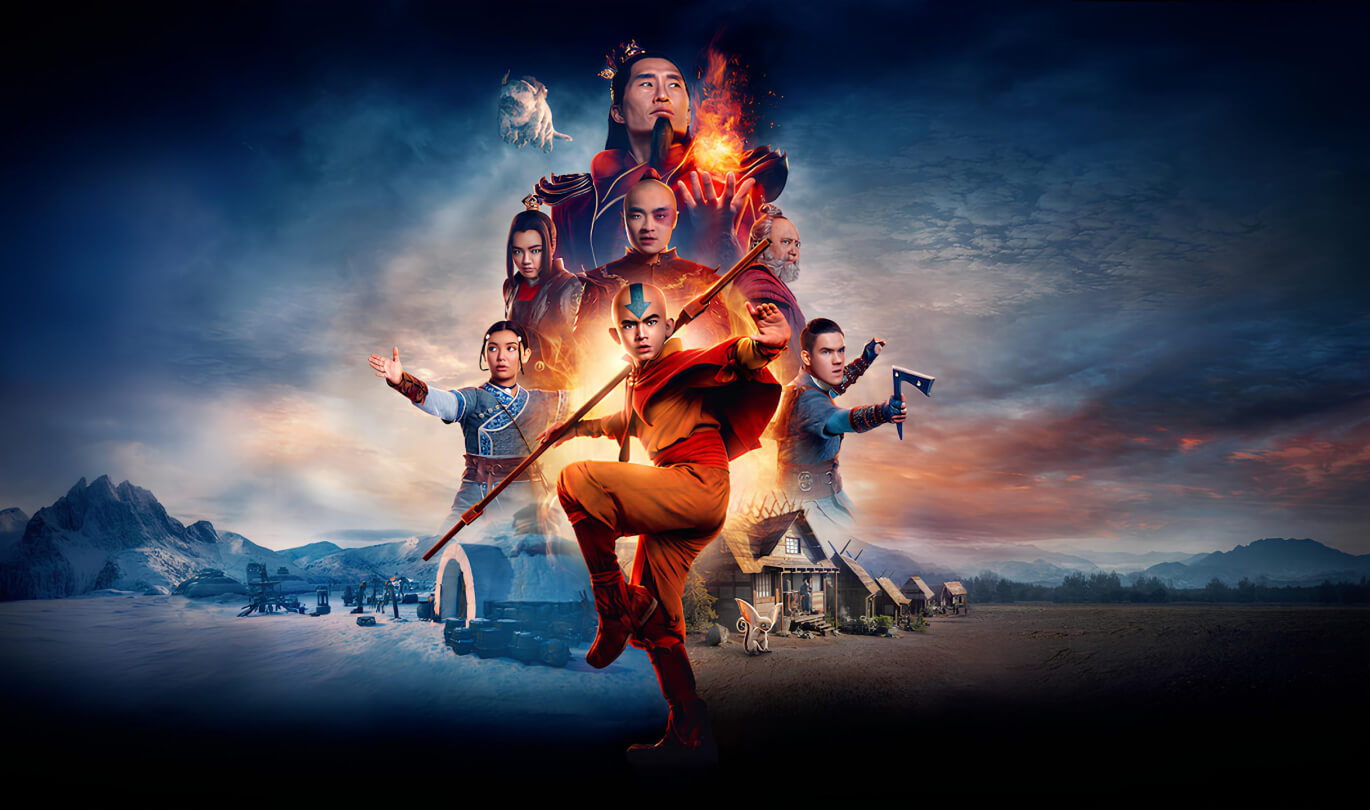
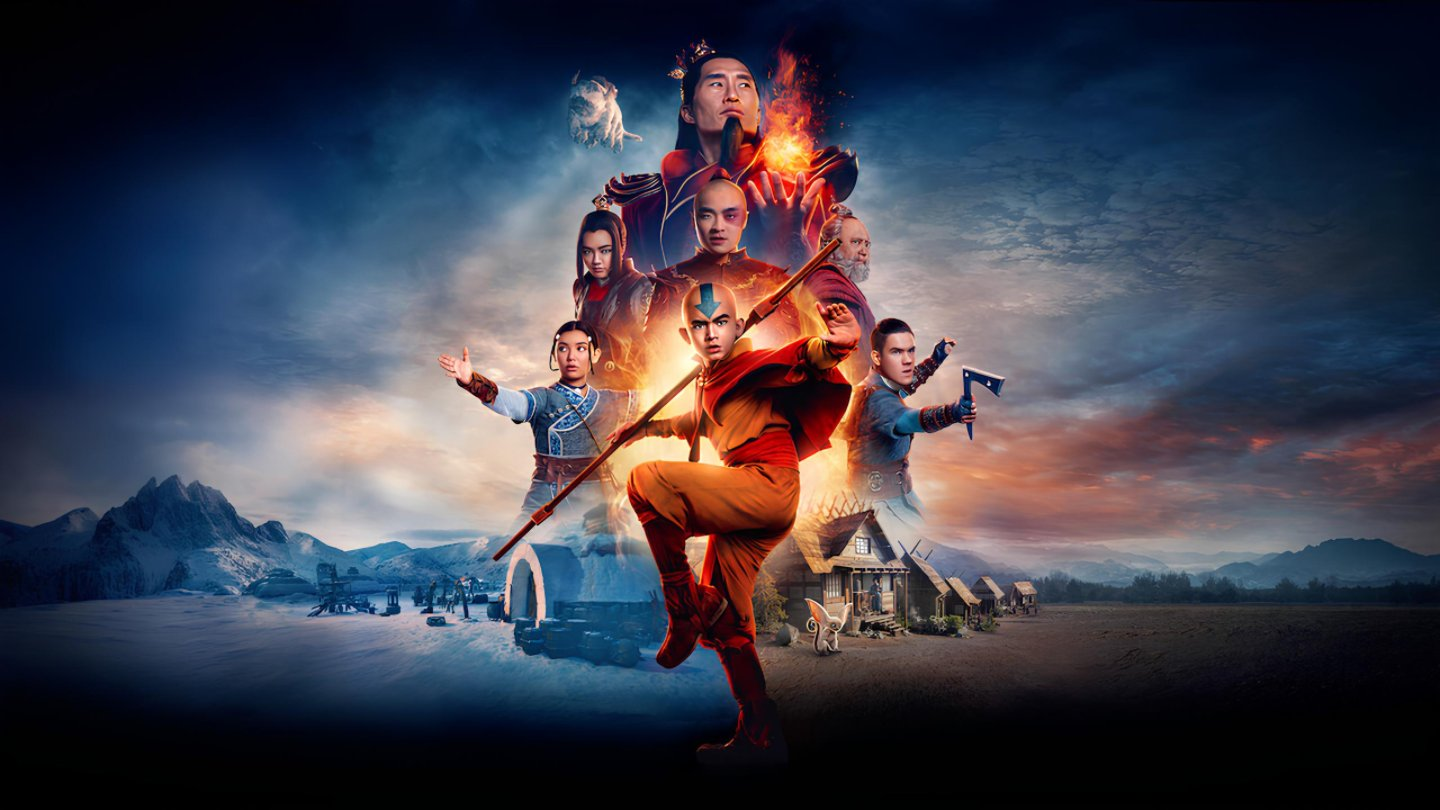
fix css

diff --git a/css/style.css b/css/style.css
@@ -54,22 +54,16 @@
 }
 
 .hero {
-  background-position: top;
+  background-position: center top;
   background-repeat: no-repeat;
-  /* background-size: cover; */
-  padding-top: 25vw;
+  padding-top: 60vh;
   padding-bottom: 60px;
-  background-image: linear-gradient(
-      180deg,
+  background-image:
+    linear-gradient(180deg,
       rgba(0, 0, 0, 0) 52.716%,
-      rgba(0, 0, 0, 0.76) 65.309%
-    ),
-    image-set(
-      url("../img/hero-bg@x2.webp") type("image/webp") 2x,
-      url("../img/hero-bg.webp") type("image/webp"),
-      url("../img/hero-bg@x2.jpg") 2x,
-      url("../img/hero-bg.jpg")
-    );
+      rgba(0, 0, 0, 0.76) 65.309%),
+    image-set(url("../img/hero-bg@x2.jpg") 2x,
+      url("../img/hero-bg.jpg"));
 }
 
 .hero__container {
@@ -124,22 +118,18 @@
   content: "";
   flex-basis: 530px;
   background-image: url("../img/Aang.jpg");
-  background-image: -webkit-image-set(
-    url("../img/Aang@2x.avif") type("image/avif") 2x,
-    url("../img/Aang.avif") type("image/avif") 1x,
-    url("../img/Aang@2x.webp") type("image/webp") 2x,
-    url("../img/Aang.webp") type("image/webp") 1x,
-    url("../img/Aang@2x.jpg") 2x,
-    url("../img/Aang.jpg") 1x
-  );
-  background-image: image-set(
-    url("../img/Aang@2x.avif") type("image/avif") 2x,
-    url("../img/Aang.avif") type("image/avif") 1x,
-    url("../img/Aang@2x.webp") type("image/webp") 2x,
-    url("../img/Aang.webp") type("image/webp") 1x,
-    url("../img/Aang@2x.jpg") 2x,
-    url("../img/Aang.jpg") 1x
-  );
+  background-image: -webkit-image-set(url("../img/Aang@2x.avif") type("image/avif") 2x,
+      url("../img/Aang.avif") type("image/avif") 1x,
+      url("../img/Aang@2x.webp") type("image/webp") 2x,
+      url("../img/Aang.webp") type("image/webp") 1x,
+      url("../img/Aang@2x.jpg") 2x,
+      url("../img/Aang.jpg") 1x);
+  background-image: image-set(url("../img/Aang@2x.avif") type("image/avif") 2x,
+      url("../img/Aang.avif") type("image/avif") 1x,
+      url("../img/Aang@2x.webp") type("image/webp") 2x,
+      url("../img/Aang.webp") type("image/webp") 1x,
+      url("../img/Aang@2x.jpg") 2x,
+      url("../img/Aang.jpg") 1x);
   background-position: center;
   background-repeat: no-repeat;
   background-size: cover;
@@ -235,22 +225,18 @@ trailers__button:active {
   .about__container::after {
     flex-basis: 436px;
     background-image: url("../img/Aang1024.jpg");
-    background-image: -webkit-image-set(
-      url("../img/Aang1024@2x.avif") type("image/avif") 2x,
-      url("../img/Aang1024.avif") type("image/avif") 1x,
-      url("../img/Aang1024@2x.webp") type("image/webp") 2x,
-      url("../img/Aang1024.webp") type("image/webp") 1x,
-      url("../img/Aang1024.jpg") 2x,
-      url("../img/Aang1024.jpg") 1x
-    );
-    background-image: image-set(
-      url("../img/Aang1024@2x.avif") type("image/avif") 2x,
-      url("../img/Aang1024.avif") type("image/avif") 1x,
-      url("../img/Aang1024@2x.webp") type("image/webp") 2x,
-      url("../img/Aang1024.webp") type("image/webp") 1x,
-      url("../img/Aang1024@2x.jpg") 2x,
-      url("../img/Aang1024.jpg") 1x
-    );
+    background-image: -webkit-image-set(url("../img/Aang1024@2x.avif") type("image/avif") 2x,
+        url("../img/Aang1024.avif") type("image/avif") 1x,
+        url("../img/Aang1024@2x.webp") type("image/webp") 2x,
+        url("../img/Aang1024.webp") type("image/webp") 1x,
+        url("../img/Aang1024.jpg") 2x,
+        url("../img/Aang1024.jpg") 1x);
+    background-image: image-set(url("../img/Aang1024@2x.avif") type("image/avif") 2x,
+        url("../img/Aang1024.avif") type("image/avif") 1x,
+        url("../img/Aang1024@2x.webp") type("image/webp") 2x,
+        url("../img/Aang1024.webp") type("image/webp") 1x,
+        url("../img/Aang1024@2x.jpg") 2x,
+        url("../img/Aang1024.jpg") 1x);
   }
 }
 
@@ -272,22 +258,18 @@ trailers__button:active {
   .about__container::after {
     flex-basis: 300px;
     background-image: url("../img/Aang768.jpg");
-    background-image: -webkit-image-set(
-      url("../img/Aang768@2x.avif") type("image/avif") 2x,
-      url("../img/Aang768.avif") type("image/avif") 1x,
-      url("../img/Aang768@2x.webp") type("image/webp") 2x,
-      url("../img/Aang768.webp") type("image/webp") 1x,
-      url("../img/Aang@2x.jpg") 2x,
-      url("../img/Aang.jpg") 1x
-    );
-    background-image: image-set(
-      url("../img/Aang1024@2x.avif") type("image/avif") 2x,
-      url("../img/Aang1024.avif") type("image/avif") 1x,
-      url("../img/Aang768@2x.webp") type("image/webp") 2x,
-      url("../img/Aang768.webp") type("image/webp") 1x,
-      url("../img/Aang@2x.jpg") 2x,
-      url("../img/Aang.jpg") 1x
-    );
+    background-image: -webkit-image-set(url("../img/Aang768@2x.avif") type("image/avif") 2x,
+        url("../img/Aang768.avif") type("image/avif") 1x,
+        url("../img/Aang768@2x.webp") type("image/webp") 2x,
+        url("../img/Aang768.webp") type("image/webp") 1x,
+        url("../img/Aang@2x.jpg") 2x,
+        url("../img/Aang.jpg") 1x);
+    background-image: image-set(url("../img/Aang1024@2x.avif") type("image/avif") 2x,
+        url("../img/Aang1024.avif") type("image/avif") 1x,
+        url("../img/Aang768@2x.webp") type("image/webp") 2x,
+        url("../img/Aang768.webp") type("image/webp") 1x,
+        url("../img/Aang@2x.jpg") 2x,
+        url("../img/Aang.jpg") 1x);
   }
 
   .about__content {
@@ -299,21 +281,17 @@ trailers__button:active {
   .about__container::after {
     flex-basis: 288px;
     background-image: url("../img/Aang320.jpg");
-    background-image: -webkit-image-set(
-      url("../img/Aang320@2x.avif") type("image/avif") 2x,
-      url("../img/Aang320.avif") type("image/avif") 1x,
-      url("../img/Aang320@2x.webp") type("image/webp") 2x,
-      url("../img/Aang320.webp") type("image/webp") 1x,
-      url("../img/Aang320.jpg") 2x,
-      url("../img/Aang320.jpg") 1x
-    );
-    background-image: image-set(
-      url("../img/Aang320@2x.avif") type("image/avif") 2x,
-      url("../img/Aang320.avif") type("image/avif") 1x,
-      url("../img/Aang320@2x.webp") type("image/webp") 2x,
-      url("../img/Aang320.webp") type("image/webp") 1x,
-      url("../img/Aang320@2x.jpg") 2x,
-      url("../img/Aang320.jpg") 1x
-    );
+    background-image: -webkit-image-set(url("../img/Aang320@2x.avif") type("image/avif") 2x,
+        url("../img/Aang320.avif") type("image/avif") 1x,
+        url("../img/Aang320@2x.webp") type("image/webp") 2x,
+        url("../img/Aang320.webp") type("image/webp") 1x,
+        url("../img/Aang320.jpg") 2x,
+        url("../img/Aang320.jpg") 1x);
+    background-image: image-set(url("../img/Aang320@2x.avif") type("image/avif") 2x,
+        url("../img/Aang320.avif") type("image/avif") 1x,
+        url("../img/Aang320@2x.webp") type("image/webp") 2x,
+        url("../img/Aang320.webp") type("image/webp") 1x,
+        url("../img/Aang320@2x.jpg") 2x,
+        url("../img/Aang320.jpg") 1x);
   }
 }

diff --git a/css/default.css b/css/default.css
@@ -4,6 +4,7 @@
   --button-bg: #272928;
   --footer-bg: #101010;
   --white: #ffffff;
+  --black: #000000;
   --button-bg-active: #ff3d00;
   --button-bg-hover-active: #ff521b;
   --button-arrow-bg-hover: #343434;
@@ -11,11 +12,10 @@
 
 @font-face {
   font-family: Inter;
-  src: url(../fonts/Inter/inter-v13-cyrillic_latin-regular.woff2),
-    format("woff2");
+  src: url(../fonts/Inter/inter-400.woff2), format("woff2");
   font-weight: 400;
   font-display: swap;
-  src: url(../fonts/Inter/inter-v13-cyrillic_latin-600.woff2), format("woff2");
+  src: url(../fonts/Inter/inter-600.woff2), format("woff2");
   font-weight: 600;
   font-display: swap;
 }
@@ -36,13 +36,15 @@ body {
   overflow-x: hidden;
   min-width: 320px;
   min-height: 100vh;
+  min-height: 100dvh;
   font-family: Inter, sans-serif;
   -webkit-font-smoothing: antialiased;
   -moz-osx-font-smoothing: grayscale;
   text-rendering: optimizeLegibility;
-  -webkit-tap-highlight-color: #00000000;
+  -webkit-tap-highlight-color: var(--black);
   -webkit-tap-highlight-color: transparent;
   font-size: 16px;
+  font-weight: 400;
   line-height: 1.5;
   color: var(--white);
   background-color: var(--main-bg);

diff --git a/index.html b/index.html
@@ -21,7 +21,7 @@
     </div>
   </header>
 
-  <main class="main">50
+  <main class="main">
     <h1 class="visually-hidden">
       ПРО КИНО&nbsp;&mdash; Аватар: Легенда об&nbsp;Аанге
     </h1>
